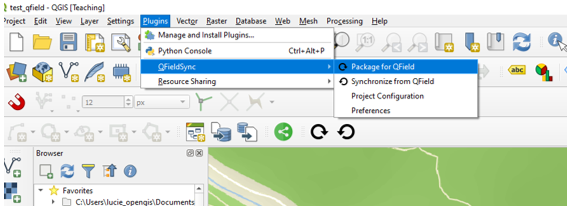
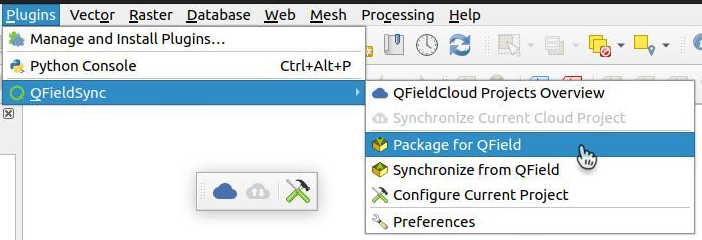
Added show package project option in toolbar and other improvements

diff --git a/documentation/get-started/tutorials/get-started-qfs.en.md b/documentation/get-started/tutorials/get-started-qfs.en.md
@@ -124,10 +124,21 @@ will be copied to the offline editing working copy.
 
 ## Package for QField
 
-Once the project is configured, package it in a folder. This folder will
-contain the .qgs and the data used in it.
+To package your project, click on Plugins > QFieldSync > Package for QField. Once the project is configured, proceed to package it into a folder. This folder will contain both the .qgs file and the associated data.
 
 !![Package the project for QField](../../assets/images/qfield-sync_package1.png)
+
+Even though QFieldSync doesn't display packaging options by default in the Toolbar panel, you can still access them through Plugins > QFieldSync > Preferences.
+
+!![QFieldSync Preferences button](../../assets/images/qfieldsync-preferences-button.png,250px)
+
+Simply activate the checkbox labeled "Show the packaging options in the toolbar."
+
+!![QFieldSync Preferences](../../assets/images/checkbox-show-package.png,850px)
+
+!![](../../assets/images/unchecked-show-package.png,90px)
+
+!![](../../assets/images/checked-show-package.png,150px)
 
 Copy the folder on your device. Open QField, open the project and start
 collecting data.

diff --git a/documentation/get-started/storage.en.md b/documentation/get-started/storage.en.md
@@ -134,17 +134,17 @@ To export the layers from a synchronized QFieldCloud project, either on your dev
 
 2. Select 'Open Project Folder' action.
 
-!![](../assets/images/export-qfieldcloud-files-from-qfield-2-open-folder-project.png)
+!![](../assets/images/export-qfieldcloud-files-from-qfield-2-open-folder-project.png,350px)
 
 3. Inside this project folder, you will find your project files. Offline layers will be stored in a file named 'data.gpkg'. You can also export your attached files (Photos, Audio, Video, etc).
 
 4. Now, click on the three dots (⋮) located on the right side of the file or folder.
 
-!![](../assets/images/export-qfieldcloud-files-from-qfield-3-three-dots.png)
+!![](../assets/images/export-qfieldcloud-files-from-qfield-3-three-dots.png,350px)
 
 5. Choose between the actions 'Send to...' or 'Export to folder...' based on your preference and follow the prompts accordingly.
 
-!![](../assets/images/export-qfieldcloud-files-from-qfield-4-options-to-send.png)
+!![](../assets/images/export-qfieldcloud-files-from-qfield-4-options-to-send.png,350px)
 
 !!! note
     This functionality is available on Android only.
